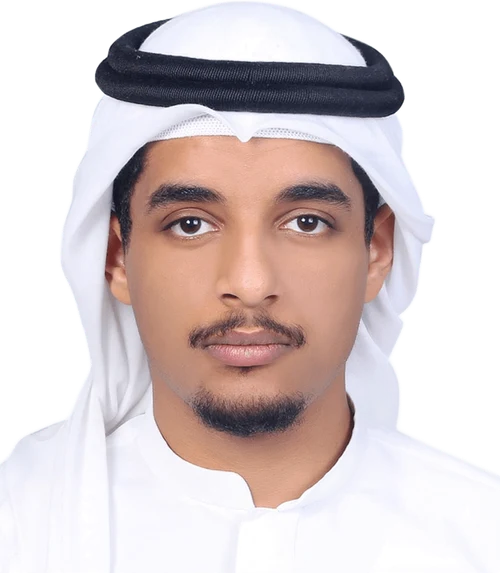
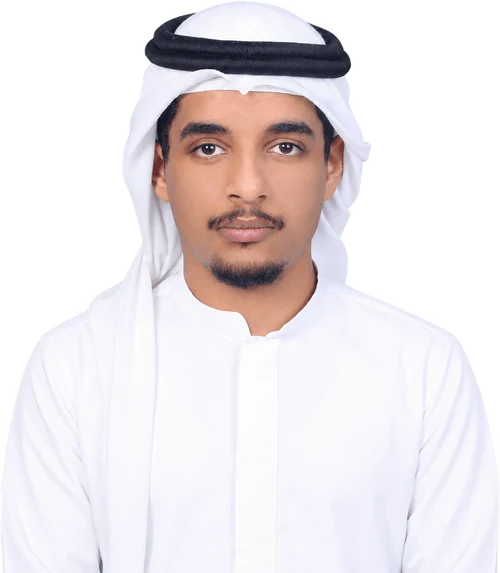
Rahaf stamp card; new Ghalia + waist-up Rakan cut-outs
Rahaf Al-Rozah joins last in the grid as the Option B stamp monogram
(no photo yet; modal hides photo/link when empty). Ghalia replaced with
Gloria's supplied pre-cut image (hair finally clean); Rakan re-cut from
the extended waist-up version so his head scale matches the row. Both
at the standard 500:573 bust ratio.

Claude-Session: https://claude.ai/code/session_01CBgqScbhJyaaDiTg7zStd2

diff --git a/css/main.css b/css/main.css
@@ -53,6 +53,12 @@ header.site .btn{padding:11px 22px;font-size:14px}
 .dd-menu a{display:block;padding:11px 16px;border-radius:12px;font-size:14px;color:var(--text)}
 .dd-menu a:hover{background:rgba(47,77,105,.07);color:var(--navy)}
 .dd-menu a small{display:block;font-weight:500;font-size:12px;color:var(--mut)}
+/* animated hover pill (desktop nav) */
+.navlinks{position:relative}
+.navlinks > a,.navlinks .dd{position:relative;z-index:1}
+.nav-pill{position:absolute;top:0;left:0;background:rgba(47,77,105,.07);border-radius:100px;opacity:0;pointer-events:none;z-index:0;transition:transform .3s cubic-bezier(.34,1.3,.64,1),width .3s cubic-bezier(.34,1.3,.64,1),height .3s cubic-bezier(.34,1.3,.64,1),opacity .18s}
+.nav-pill.on{opacity:1}
+.nav-pill.snap{transition:none}
 /* burger + mobile menu */
 .burger{display:none;background:none;border:0;width:40px;height:40px;cursor:pointer;flex-direction:column;align-items:center;justify-content:center;gap:5px}
 .burger span{display:block;width:20px;height:2px;background:var(--navy-ink);border-radius:2px;transition:.3s}
@@ -116,7 +122,7 @@ html.js .lede>*:nth-child(3){transition-delay:.2s}
 .page-hero .ctas{display:flex;gap:12px;flex-wrap:wrap;margin-top:28px}
 .crumb{font-size:13px;font-weight:600;letter-spacing:.06em;color:rgba(255,255,255,.55)}
 .crumb a:hover{color:var(--gold)}
-.crumb i{font-style:normal;margin:0 8px;color:var(--gold)}
+.crumb i{display:inline-block;width:1px;height:11px;background:rgba(255,255,255,.28);margin:0 10px;vertical-align:-1px;font-size:0;overflow:hidden}
 
 /* ── ticker ── */
 .ticker{background:var(--navy);color:rgba(255,255,255,.9);overflow:hidden;padding:14px 0;font-family:var(--disp);font-weight:600;font-size:14px;letter-spacing:.08em}
@@ -252,6 +258,24 @@ html.js .lede>*:nth-child(3){transition-delay:.2s}
 .sgi-link{display:inline-block;margin-top:18px;font-family:var(--disp);font-weight:700;font-size:14.5px;color:var(--gold-ink)}
 .sgi-link:hover{text-decoration:underline}
 @media(max-width:760px){.sgi{grid-template-columns:1fr}}
+.sgi.three{grid-template-columns:1.25fr minmax(190px,230px) 1.05fr;align-items:start;gap:clamp(24px,3.4vw,54px)}
+.sgi.three .sgi-body{margin-top:16px}
+.cover-lift{display:block;overflow:hidden}
+.cover-lift img{width:100%;display:block;box-shadow:0 14px 34px rgba(26,44,63,.16);transition:transform .45s cubic-bezier(.2,.7,.3,1),box-shadow .45s}
+.cover-lift:hover img{transform:scale(1.035) translateY(-4px);box-shadow:0 22px 46px rgba(26,44,63,.22)}
+.jissue{font-family:var(--disp);font-weight:700;font-size:12.5px;letter-spacing:.2em;text-transform:uppercase;color:var(--gold-ink)}
+.jt{font-family:var(--disp);font-weight:800;font-size:clamp(21px,2.3vw,27px);color:var(--navy-ink);line-height:1.14;margin-top:8px}
+.jdesc{color:var(--mut);font-size:15px;max-width:56ch;margin-top:10px}
+.jcta{display:inline-block;margin-top:16px;font-family:var(--disp);font-weight:700;font-size:14.5px;color:var(--gold-ink)}
+.jcta:hover{text-decoration:underline}
+@media(max-width:980px){.sgi.three{grid-template-columns:1fr}.sgi.three .cover-lift{max-width:220px}}
+
+/* text roll hover ([data-roll]) */
+.tr{display:inline-block;overflow:hidden;height:1.25em;line-height:1.25em;vertical-align:bottom}
+.tr i{display:block;font-style:normal;transition:transform .4s cubic-bezier(.6,0,.2,1)}
+[data-roll]:hover .tr i{transform:translateY(-100%)}
+.roll-arrow{display:inline-block;transition:transform .25s}
+[data-roll]:hover .roll-arrow{transform:translateX(5px)}
 
 /* footer */
 footer.site{background:var(--navy-ink);color:rgba(255,255,255,.75);padding:clamp(48px,6vw,72px) 0 32px}
@@ -283,7 +307,8 @@ footer.site a:hover{color:var(--gold)}
 .idx-row .side{font-size:13.5px;color:var(--mut);text-align:right;white-space:nowrap;justify-self:end;align-self:center}
 .idx-row.two{grid-template-columns:58px 1fr auto}
 .idx-row.prog{grid-template-columns:1.1fr 1.1fr;align-items:center}
-.idx-row.prog .word{font-size:clamp(26px,3.6vw,44px)}
+.idx-row.prog .word{font-size:clamp(26px,3.6vw,44px);color:var(--navy)}
+.idx-row.prog:hover .word{color:var(--gold-ink)}
 .idx-row.prog .tag{display:block;font-family:var(--body);font-weight:500;font-size:13px;letter-spacing:.04em;color:var(--mut);margin-top:8px}
 @media(max-width:760px){.idx-row.prog{grid-template-columns:1fr;row-gap:10px}.idx-row.prog .desc{grid-column:1}}
 a.idx-row .desc .go-hint{font-family:var(--disp);font-weight:700;font-size:13.5px;color:var(--gold-ink);display:inline-block;margin-left:8px;transition:transform .25s}
@@ -329,6 +354,8 @@ a.idx-row:hover .desc .go-hint{transform:translateX(5px)}
 /* team page: member cards — smaller pop-out squares, no initials */
 .tgrid.four{grid-template-columns:repeat(4,1fr);gap:clamp(20px,3vw,40px);padding-top:clamp(36px,4vw,56px)}
 .tcard.mat .box img{width:100%;height:auto}
+.tcard .box.noimg{display:flex;align-items:center;justify-content:center}
+.tcard .box.noimg .stamp{font-family:var(--disp);font-weight:800;font-size:26cqw;letter-spacing:.02em;color:var(--navy-ink);opacity:.85}
 .tcard.mat .nm{font-size:clamp(18px,1.7vw,21px);margin-top:16px}
 .tcard.mat .rl{font-size:14px}
 @media(max-width:900px){.tgrid.four{grid-template-columns:repeat(2,1fr)}}
@@ -360,4 +387,7 @@ html.js .rv.in{opacity:1;transform:none}
   .col-track{animation:none!important}
   .ticker-track{animation:none}
   .hero-home .fcard img{transition:none}
+  .tr i,[data-roll]:hover .tr i{transform:none;transition:none}
+  .roll-arrow,[data-roll]:hover .roll-arrow{transform:none;transition:none}
+  .nav-pill{transition:opacity .18s}
 }

diff --git a/team.html b/team.html
@@ -90,7 +90,7 @@
         <span class="rl">KSA Chief of Staff</span>
       </button>
       <button class="tcard mat" type="button" data-i="4" style="--blk:#d6ad64;--blkD:#cda254">
-        <span class="box"><img src="assets/ghalia_cutout.webp?v=3" alt="Ghalia Badokhon"/></span>
+        <span class="box"><img src="assets/ghalia_cutout.webp?v=4" alt="Ghalia Badokhon"/></span>
         <span class="nm">Ghalia Badokhon</span>
         <span class="rl">Jeddah Lead</span>
       </button>
@@ -110,9 +110,14 @@
         <span class="rl">Administrative Lead</span>
       </button>
       <button class="tcard mat" type="button" data-i="8" style="--blk:#e7d7b8;--blkD:#dfcba4">
-        <span class="box"><img src="assets/rakan_cutout.webp" alt="Rakan Al-Shaibani"/></span>
+        <span class="box"><img src="assets/rakan_cutout.webp?v=2" alt="Rakan Al-Shaibani"/></span>
         <span class="nm">Rakan Al-Shaibani</span>
         <span class="rl">SGC Advisory, Consultant</span>
+      </button>
+      <button class="tcard mat" type="button" data-i="9" style="--blk:#b9cbdb;--blkD:#a9bfd2">
+        <span class="box noimg"><span class="stamp">RA</span></span>
+        <span class="nm">Rahaf Al-Rozah</span>
+        <span class="rl">Literary Salon Coordinator</span>
       </button>
     </div>
   </div>
@@ -215,7 +220,10 @@ var TEAM=[
    bio:"Yasser is SGYN's Administrative Lead, keeping the network's operations, records, and coordination running behind the scenes."},
   {name:"Rakan Al-Shaibani", role:"SGC Advisory, Consultant", city:"",
    photo:"assets/rakan_headshot_preferred.jpeg", link:"", tier:"lead",
-   bio:"Rakan is a consultant with SGC Advisory, supporting the institutional work of the wider Sino-Gulf Collective."}
+   bio:"Rakan is a consultant with SGC Advisory, supporting the institutional work of the wider Sino-Gulf Collective."},
+  {name:"Rahaf Al-Rozah", role:"Literary Salon Coordinator", city:"Jeddah",
+   photo:"", link:"", tier:"lead",
+   bio:"Rahaf coordinates SGYN's Literary Salon in Jeddah — the network's monthly gathering on literature, translation, and identity."}
 ];
 
 (function(){
@@ -227,8 +235,9 @@ var TEAM=[
 
   var veil=document.getElementById('veil');
   function openBio(m){
-    document.getElementById('bImg').src=m.photo;
-    document.getElementById('bImg').alt=m.name;
+    var bi=document.getElementById('bImg');
+    bi.src=m.photo; bi.alt=m.name;
+    bi.style.display=m.photo?'':'none';
     document.getElementById('bName').textContent=m.name;
     document.getElementById('bRole').textContent=m.role;
     document.getElementById('bCity').textContent=m.city;

diff --git a/index.html b/index.html
@@ -135,16 +135,25 @@
       </a>
     </div>
 
-    <!-- partner organization: Sino-Gulf Institute -->
-    <div class="sgi rv" id="institute">
+    <!-- partner organization: Sino-Gulf Institute + first journal -->
+    <div class="sgi three rv" id="institute">
       <div>
         <span class="lbl dark">Our partner organization</span>
         <h3>Sino-Gulf <em>Institute</em></h3>
         <p class="sgi-founder">Founded and led by Abdulla AlHemeiri</p>
+        <div class="sgi-body">
+          <p>A holistic research centre stretching from weekly news updates, analysis, and policy reports to a dedicated youth publications section, highlighting SGYN's youth perspective. SGI aims to become a leading intellectual platform for China–Gulf dialogue.</p>
+          <a class="sgi-link" data-roll href="https://sinogulfinstitute.com" target="_blank" rel="noopener">Visit the Sino-Gulf Institute →</a>
+        </div>
       </div>
-      <div class="sgi-body">
-        <p>A holistic research centre stretching from weekly news updates, analysis, and policy reports to a dedicated youth publications section, highlighting SGYN's youth perspective. SGI aims to become a leading intellectual platform for China–Gulf dialogue.</p>
-        <a class="sgi-link" data-roll href="https://sinogulfinstitute.com" target="_blank" rel="noopener">Visit the Sino-Gulf Institute →</a>
+      <a class="cover-lift" href="https://sinogulfinstitute.com/journal.html" target="_blank" rel="noopener" aria-label="Read the first issue of the SGI Journal">
+        <img src="assets/sgi-journal-vol1-cover.jpg" alt="Cover of the SGI Journal, Volume 1 Issue 1: China and the Gulf in a Changing World" loading="lazy" />
+      </a>
+      <div>
+        <span class="jissue">SGI Journal — Volume 1, Issue 1</span>
+        <h4 class="jt"><i>China and the Gulf in a Changing World</i></h4>
+        <p class="jdesc">The first issue, published September 2026 in collaboration with SGYN: 88 pages and ten contributions — seven in English, three in Chinese — on energy, diplomacy, trade, finance, tourism, and technology, written by young researchers across countries, universities, and disciplines.</p>
+        <a class="jcta" data-roll href="https://sinogulfinstitute.com/journal.html" target="_blank" rel="noopener">Read the first issue →</a>
       </div>
     </div>
   </div>

diff --git a/js/main.js b/js/main.js
@@ -77,4 +77,39 @@
     });
   },{threshold:.5});
   document.querySelectorAll('[data-count]').forEach(function(b){mio.observe(b)});
+
+  /* text roll hover: each letter rolls up, a twin rolls in from below */
+  document.querySelectorAll('[data-roll]').forEach(function(el){
+    var txt=(el.textContent||'').trim(), arrow='';
+    if(/\s→$/.test(txt)){arrow='→';txt=txt.replace(/\s*→$/,'');}
+    var html='';
+    txt.split('').forEach(function(c,i){
+      var ch=(c===' ')?'&nbsp;':c.replace(/&/g,'&amp;').replace(/</g,'&lt;').replace(/>/g,'&gt;');
+      var d=' style="transition-delay:'+(i*18)+'ms"';
+      html+='<span class="tr"><i'+d+'>'+ch+'</i><i'+d+'>'+ch+'</i></span>';
+    });
+    if(arrow)html+=' <span class="roll-arrow">→</span>';
+    el.innerHTML=html;
+  });
+
+  /* navbar: pill that glides between links on hover (desktop only) */
+  var navlinks=document.querySelector('.navlinks');
+  if(navlinks && matchMedia('(hover: hover)').matches){
+    var pill=document.createElement('span');
+    pill.className='nav-pill';
+    navlinks.insertBefore(pill,navlinks.firstChild);
+    var shown=false;
+    navlinks.querySelectorAll(':scope > a, :scope > .dd > a').forEach(function(t){
+      t.addEventListener('mouseenter',function(){
+        var r=t.getBoundingClientRect(), nr=navlinks.getBoundingClientRect();
+        if(!shown){pill.classList.add('snap');}
+        pill.style.width=(r.width+20)+'px';
+        pill.style.height=(r.height+12)+'px';
+        pill.style.transform='translate('+(r.left-nr.left-10)+'px,'+(r.top-nr.top-6)+'px)';
+        if(!shown){pill.offsetWidth;pill.classList.remove('snap');shown=true;}
+        pill.classList.add('on');
+      });
+    });
+    navlinks.addEventListener('mouseleave',function(){pill.classList.remove('on');shown=false;});
+  }
 })();

diff --git a/language-across-borders.html b/language-across-borders.html
@@ -51,7 +51,7 @@
 
 <section class="page-hero">
   <div class="wrap">
-    <p class="crumb"><a href="index.html">Home</a><i>→</i><a href="programs.html">Programs</a><i>→</i>Language Across Borders</p>
+    <p class="crumb"><a href="index.html">Home</a><i aria-hidden="true"></i><a href="programs.html">Programs</a><i aria-hidden="true"></i>Language Across Borders</p>
     <h1>Say it in <em>their</em> language.</h1>
     <p class="lead">Language Across Borders (LAB) is SGYN's recurring Mandarin–Arabic exchange: monthly roundtables online and in person, guest talks delivered entirely in either language — every level, every dialect, every background welcome.</p>
     <div class="ctas">

diff --git a/talent-pipeline.html b/talent-pipeline.html
@@ -51,7 +51,7 @@
 
 <section class="page-hero">
   <div class="wrap">
-    <p class="crumb"><a href="index.html">Home</a><i>→</i><a href="programs.html">Programs</a><i>→</i>Talent Pipeline</p>
+    <p class="crumb"><a href="index.html">Home</a><i aria-hidden="true"></i><a href="programs.html">Programs</a><i aria-hidden="true"></i>Talent Pipeline</p>
     <h1>Build your <em>China–Gulf career.</em></h1>
     <p class="lead">The Talent Pipeline is SGYN's professional development and opportunity-matching initiative — connecting students and early-career youth with mentorship and real-world experience in organisations operating between China and the Gulf.</p>
     <div class="ctas">

diff --git a/silk-road-roundtable.html b/silk-road-roundtable.html
@@ -51,7 +51,7 @@
 
 <section class="page-hero">
   <div class="wrap">
-    <p class="crumb"><a href="index.html">Home</a><i>→</i><a href="programs.html">Programs</a><i>→</i>Silk-Road Roundtable</p>
+    <p class="crumb"><a href="index.html">Home</a><i aria-hidden="true"></i><a href="programs.html">Programs</a><i aria-hidden="true"></i>Silk-Road Roundtable</p>
     <h1>The flagship table for <em>China–Gulf dialogue.</em></h1>
     <p class="lead">Curated, youth-led conversations across business, policy, culture, research, technology, and youth leadership — bringing members, experts, and institutional guests to one table.</p>
     <div class="ctas">

diff --git a/events.html b/events.html
@@ -51,7 +51,7 @@
 
 <section class="page-hero">
   <div class="wrap">
-    <p class="crumb"><a href="index.html">Home</a><i>→</i>Events</p>
+    <p class="crumb"><a href="index.html">Home</a><i aria-hidden="true"></i>Events</p>
     <h1>Events <em>Archive</em></h1>
     <p class="lead">Every SGYN event since December 2024 — from a cultural evening in Shanghai to a hundred youth leaders at the United Nations. Click any event for the full story, or follow <a href="https://www.instagram.com/sinogulfyouthnetwork/" target="_blank" rel="noopener" style="color:var(--gold);font-weight:600">@sinogulfyouthnetwork</a> for photos and recaps.</p>
   </div>

diff --git a/literary-salon.html b/literary-salon.html
@@ -51,7 +51,7 @@
 
 <section class="page-hero">
   <div class="wrap">
-    <p class="crumb"><a href="index.html">Home</a><i>→</i><a href="programs.html">Programs</a><i>→</i>Literary Salon</p>
+    <p class="crumb"><a href="index.html">Home</a><i aria-hidden="true"></i><a href="programs.html">Programs</a><i aria-hidden="true"></i>Literary Salon</p>
     <h1>Where two literatures <em>read each other.</em></h1>
     <p class="lead">A monthly gathering for literature, storytelling, translation, and identity — from Su Shi's poetry to Lu Xun's prose, mooncakes included. No expertise required. Only curiosity.</p>
     <div class="ctas">

diff --git a/partner.html b/partner.html
@@ -51,7 +51,7 @@
 
 <section class="page-hero">
   <div class="wrap">
-    <p class="crumb"><a href="index.html">Home</a><i>→</i>Partner / Sponsor</p>
+    <p class="crumb"><a href="index.html">Home</a><i aria-hidden="true"></i>Partner / Sponsor</p>
     <h1>Get a seat with <em>the next generation.</em></h1>
     <p class="lead">China–Gulf ties will be run by people who are in university right now. SGYN is where they already meet — a youth-led platform with institutional credibility on both shores, and no corporate channel can replicate its access.</p>
     <div class="ctas">

diff --git a/media-lab.html b/media-lab.html
@@ -51,7 +51,7 @@
 
 <section class="page-hero">
   <div class="wrap">
-    <p class="crumb"><a href="index.html">Home</a><i>→</i>Media Lab</p>
+    <p class="crumb"><a href="index.html">Home</a><i aria-hidden="true"></i>Media Lab</p>
     <h1>Voices from <em>both shores.</em></h1>
     <p class="lead">The Media Lab is where the SGYN community publishes — films, essays, photography, audio, and art from young people moving between China and the Gulf. It's just getting started, and the first voice sets the tone.</p>
     <div class="ctas">

diff --git a/programs.html b/programs.html
@@ -51,7 +51,7 @@
 
 <section class="page-hero">
   <div class="wrap">
-    <p class="crumb"><a href="index.html">Home</a><i>→</i>Programs</p>
+    <p class="crumb"><a href="index.html">Home</a><i aria-hidden="true"></i>Programs</p>
     <h1>Four programs. <em>One community.</em></h1>
     <p class="lead">Whichever door you enter through — dialogue, language, literature, or career — SGYN's programs connect the same community across China and the Gulf. Each one is youth-led, recurring, and open.</p>
   </div>
